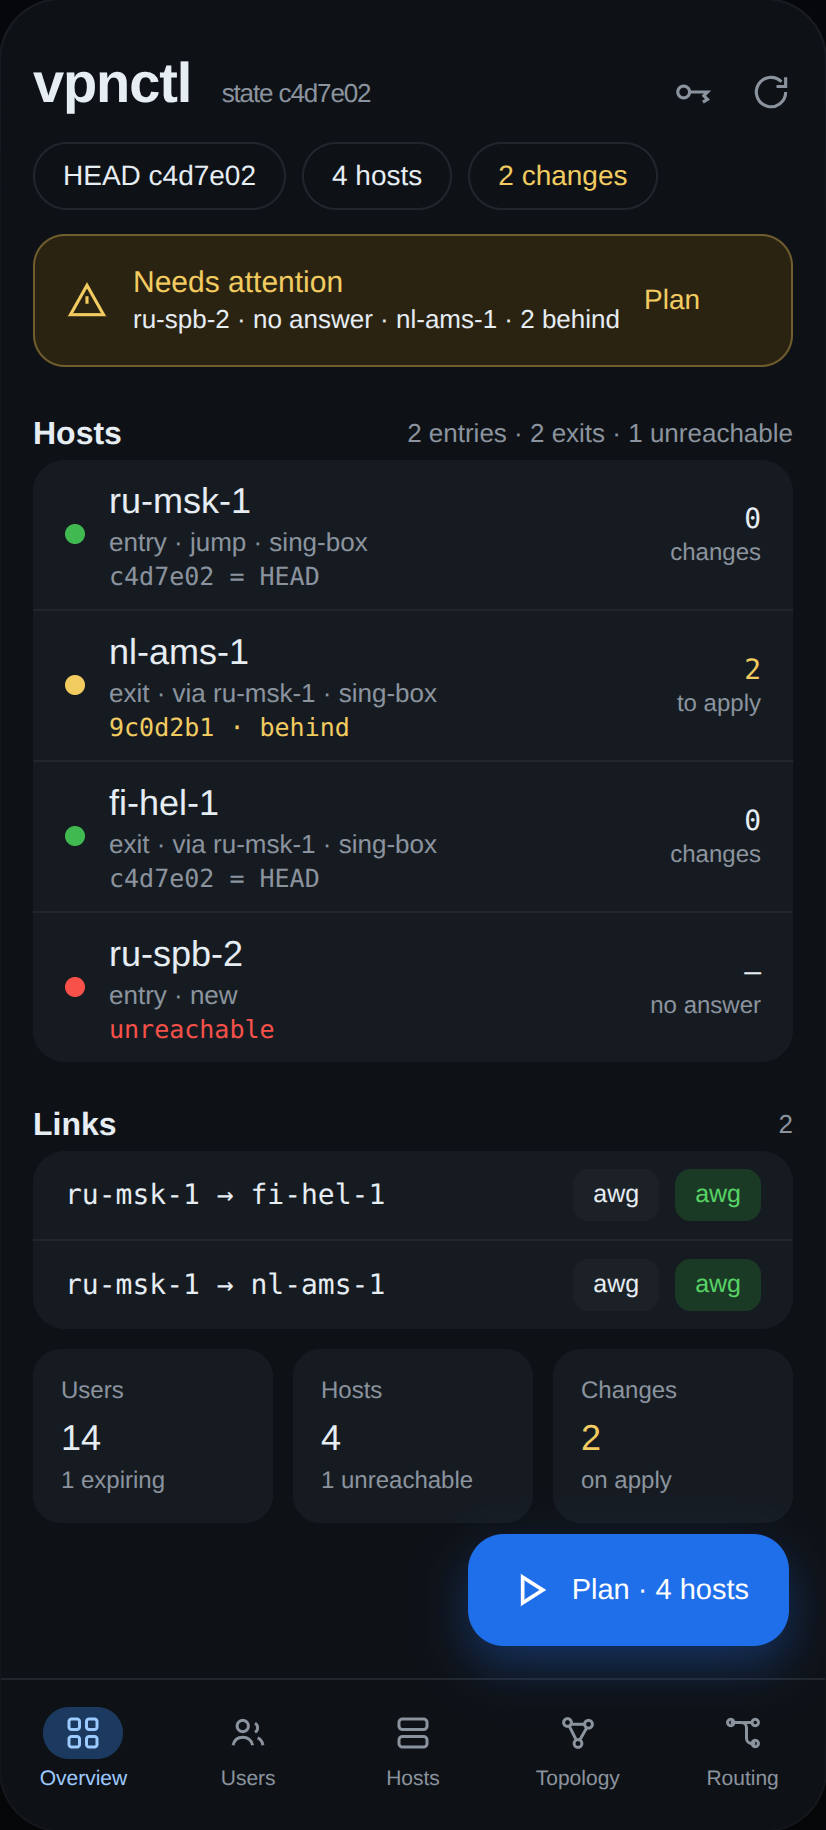
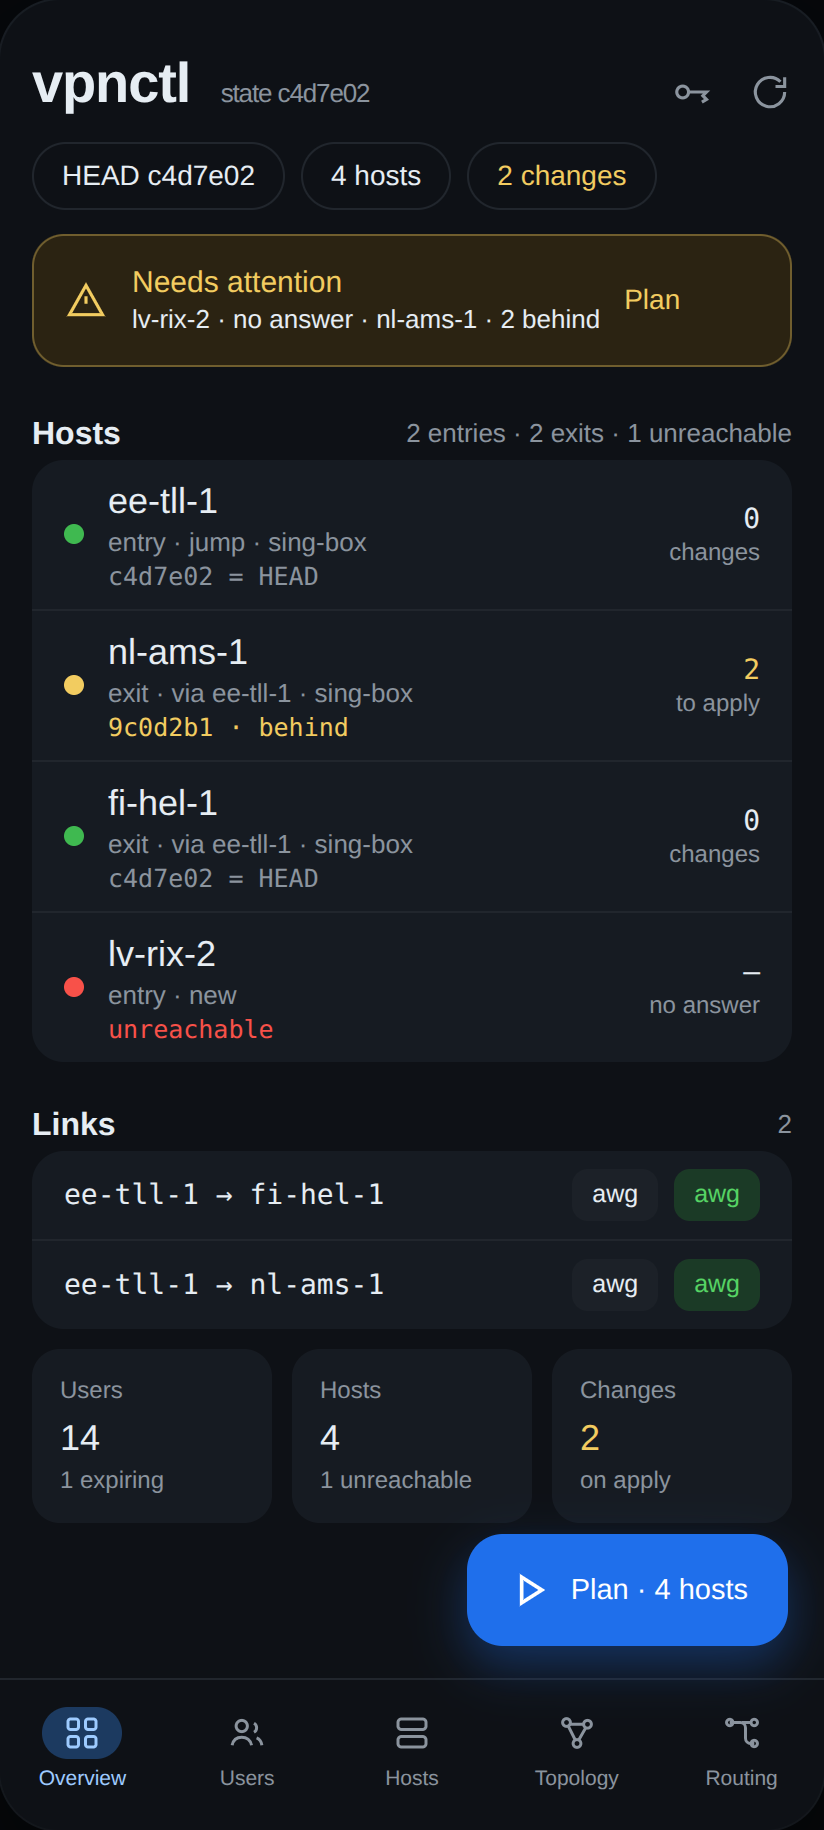
docs: use European host names on the page
The mock estate named its entry after Russian cities, which says more about
the operator's geography than the page needs. The entry is now ee-tll-1 and
the new one lv-rix-2; the exits keep their names. The screenshots are
re-rendered from the same screens.

The render note no longer credits the original Rust core: the golden snapshots
are the contract, and the page does not need the port's history.

diff --git a/README.md b/README.md
@@ -21,8 +21,8 @@ An entry close to home, exits abroad, users and subscriptions — YAML files in 
 - **State is the truth.** `hosts.yaml`, `links.yaml`, `users.yaml`, routing and
   sets describe everything. Secrets live in one `secrets.age.yaml`, encrypted for
   every device you own plus an offline backup identity.
-- **Render is deterministic.** Two runs produce identical bytes, and golden files
-  from the original Rust core keep the renderer honest.
+- **Render is deterministic.** Two runs produce identical bytes, and golden snapshots
+  keep the renderer honest.
 - **Apply is guarded.** Only a clean, pushed state is applied, only forward, with
   config checks before the swap, a chain probe after it, and a rollback when the
   probe fails.
@@ -56,7 +56,7 @@ $ vpnctl plan -dir ./state
 nl-ams-1 · applied 9c0d2b1 · 2 changes
   ~ etc/sing-box/config.json
   + var/www/sub/olga.txt
-ru-spb-2 · ✗ ssh: connect: connection refused
+lv-rix-2 · ✗ ssh: connect: connection refused
 
 $ vpnctl apply -dir ./state --host nl-ams-1
 ▸ nl-ams-1
